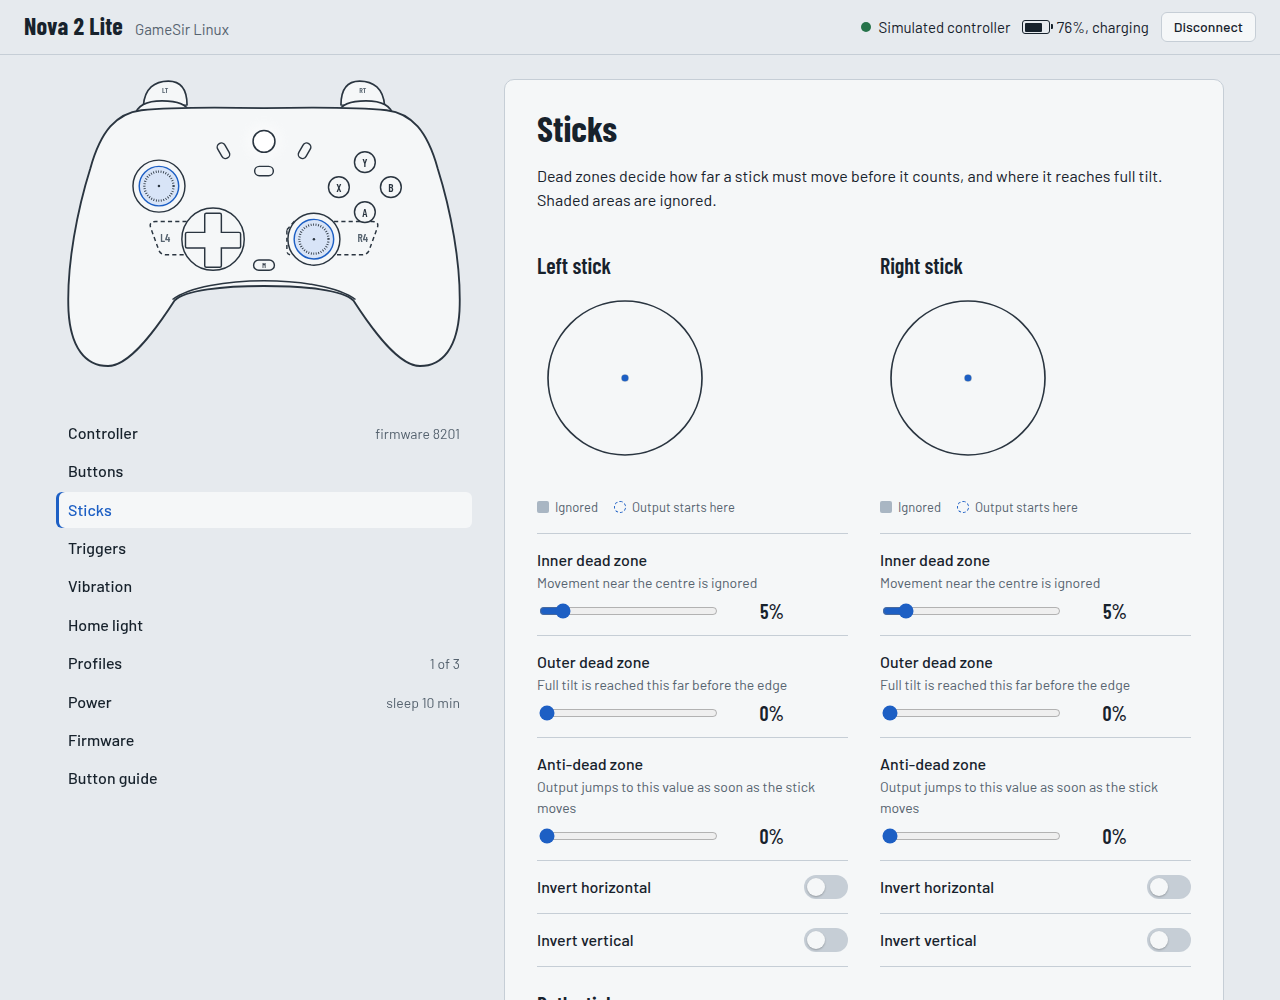
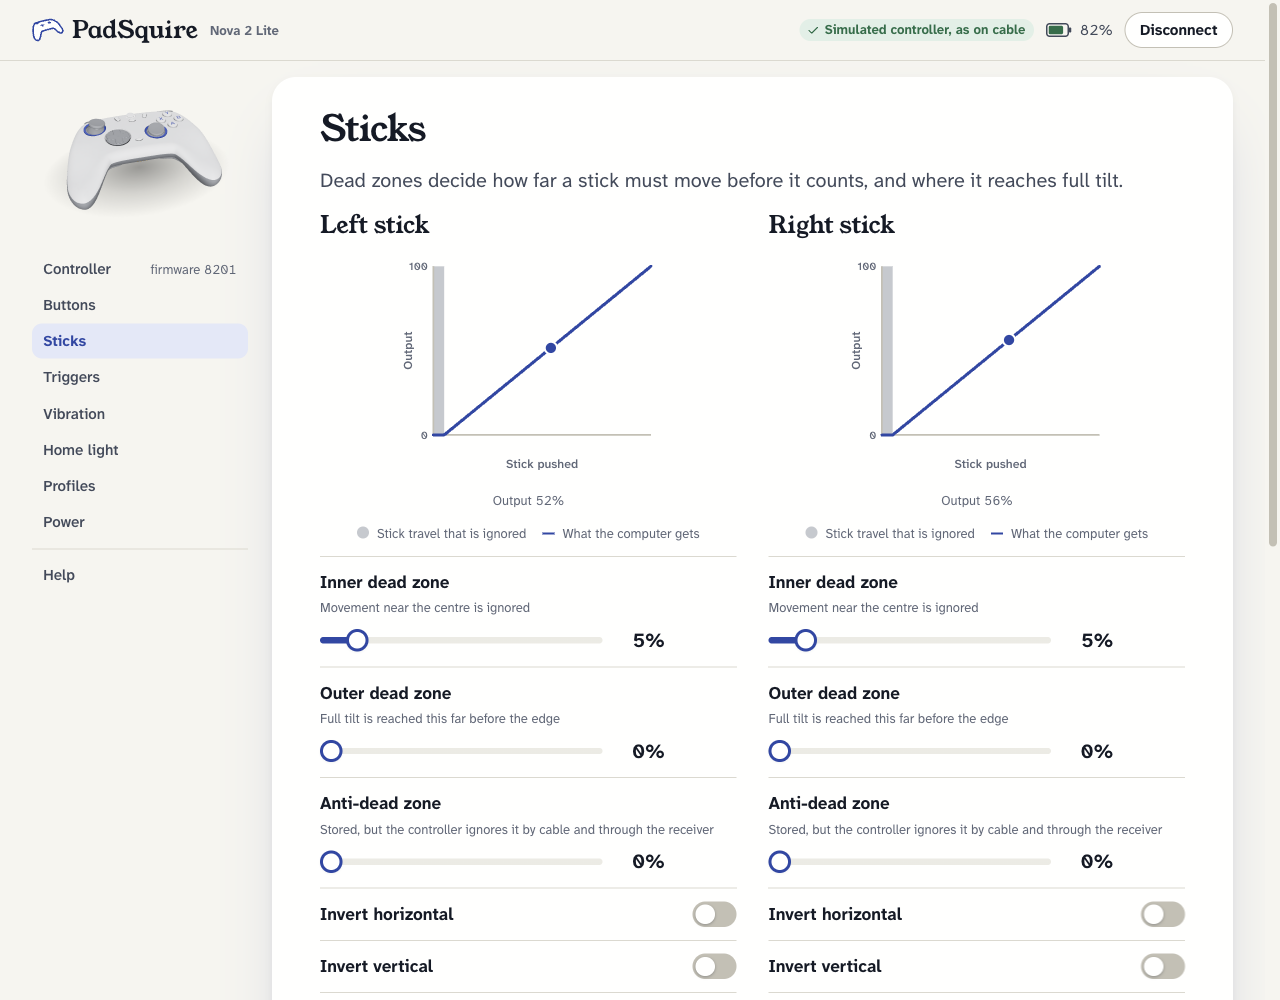
Version 0.2.0: macOS, a compact settings app, profiles and updates
- macOS: settings, the live view, the stick check, profiles, and firmware
  backup, restore and update by cable, with a PadSquire app in
  ~/Applications (an app icon, no .app in its name) and macOS's password
  dialog for update mode. The installer works on both systems.
- The settings app: a compact sidebar of nine entries, Controller with
  Overview and Firmware tabs, Help with Setup and help and the Button
  guide, response curves for sticks and triggers, busy buttons, a loading
  state shaped like the page, a phone layout.
- Merged #6 and #7: the stick check, profiles, a simulator per connection.
- PadSquire updates itself from Help.
- The tagline is now "Linux and macOS tools for GameSir controllers"; the
  README's screenshot shows today's app.

diff --git a/src/padsquire/cli.py b/src/padsquire/cli.py
@@ -170,7 +170,7 @@ def main(argv=None) -> int:
                             datefmt="%H:%M:%S")
     for line in paths.migrate():          # the folders of the old name, gamesir-linux, once
         print(f"PadSquire: {line}", file=sys.stderr)
-    p = argparse.ArgumentParser(prog="padsquire", description="PadSquire: Linux tools for GameSir controllers")
+    p = argparse.ArgumentParser(prog="padsquire", description="PadSquire: Linux and macOS tools for GameSir controllers")
     p.add_argument("--version", action="version", version=__version__)
     sub = p.add_subparsers(dest="cmd", required=True)
 

diff --git a/src/padsquire/__init__.py b/src/padsquire/__init__.py
@@ -1,4 +1,4 @@
 # SPDX-License-Identifier: AGPL-3.0-or-later
-"""Linux tools for GameSir controllers (Nova 2 Lite first)."""
+"""Linux and macOS tools for GameSir controllers (Nova 2 Lite first)."""
 
-__version__ = "0.1.3"
+__version__ = "0.2.0"

diff --git a/README.md b/README.md
@@ -1,17 +1,17 @@
 # PadSquire
 
-**Linux tools for GameSir controllers.** Configure and update the GameSir **Nova 2 Lite** on Linux,
-and configure it on macOS, without Windows. Unofficial and open source, built for interoperability by studying how the
-controller talks over USB and Bluetooth.
+**Linux and macOS tools for GameSir controllers.** Configure and update the GameSir **Nova 2 Lite**
+on Linux and macOS, without Windows. Unofficial and open source, built for interoperability by
+studying how the controller talks over USB and Bluetooth.
 
 ![The settings app, Sticks page](docs/screenshot.png)
 
 ## What it does
 
-- **A settings app in your browser** (`padsquire gui`). It finds the controller by itself when
+- **A settings app in its own window** (or a browser tab; `padsquire gui`). It finds the controller by itself when
   you plug it in, and shows every setting with the controller drawing as the map. Dead zones are
-  drawn as you drag, with the live stick or trigger position on top. On the Buttons page, the
-  buttons you press light up as the computer receives them.
+  drawn as response curves while you drag, with the live stick or trigger position on them, and
+  on the Buttons page the buttons you press light up as the computer receives them.
 - **Every setting GameSir Connect has for this controller.** That covers dead zones, stick
   options, button remapping (19 buttons, each to any other or up to three pressed together), vibration strength with a test per
   motor, the Home light and quick triggers.
@@ -27,7 +27,9 @@ controller talks over USB and Bluetooth.
   [Firmware updates](#firmware-updates).
 - **Help** inside the app. It checks what your computer still needs and gives the command for
   each item, with what every part does and links to its documentation, plus answers for when
-  something doesn't work, a guide to every button, and PadSquire's own updates.
+  something doesn't work and a guide to every button.
+- **Updates itself.** Help checks for a newer PadSquire when you open it, and an installation
+  made by the installer updates in place with one click.
 
 | | Cable | 2.4 GHz receiver | Bluetooth |
 |---|---|---|---|
@@ -39,8 +41,8 @@ controller talks over USB and Bluetooth.
 | Controller firmware update | yes | no (use the cable) | no |
 | Receiver firmware update | | yes | |
 
-Tested on one Nova 2 Lite (firmware 7701 and 8201) and its receiver (firmware 2800). On macOS,
-settings and remapping work by cable; see [On a Mac](#on-a-mac) for what doesn't yet.
+Tested on one Nova 2 Lite (firmware 7701 and 8201) and its receiver (firmware 2800), on Linux
+and, by cable, on macOS; see [On a Mac](#on-a-mac).
 
 ## Get started
 
@@ -72,10 +74,10 @@ itself when you close it. The
 window uses its own small browser profile in `~/.cache/padsquire/window` (for a Flatpak browser, as
 on a Steam Deck: `~/.var/app/<browser>/cache/padsquire/window`), so it keeps its size and none of
 your extensions or cookies come along; deleting that folder is safe.
-**Setup and help** in the app tells you anything that's still missing, and explains each command
-before you run it.
+**Help** in the app tells you anything that's still missing, and explains each command before
+you run it.
 
-- **Update:** run the same command again.
+- **Update:** with one click under Help, or run the same command again.
 - **Remove:** `curl -fsSL https://padsquire.com/install.sh | sh -s -- --uninstall`.
   Your firmware downloads and flash backups stay in `~/.local/share/padsquire`.
 - **With pipx** instead: `pipx install 'padsquire[gui]'`, then `padsquire menu` for the app-menu
@@ -91,19 +93,20 @@ internet.
 
 ### On a Mac
 
-Settings work on macOS by cable: macOS's own driver serves the controller's settings channel, so
-there's nothing to set up and no `sudo`. The same installer works on a Mac.
+The same installer works on a Mac, and it makes a PadSquire app in `~/Applications`. macOS's own
+driver serves the controller's settings channel, so settings need nothing set up and no `sudo`.
 
 - **Works:** every setting and remap by cable, the live sticks, triggers and buttons view, the
-  stick check and profiles, tested on one controller. The receiver and Bluetooth should work the same way but aren't
-  tested on a Mac yet.
+  stick check and profiles, tested on one controller. The receiver and Bluetooth should work the
+  same way but aren't tested on a Mac yet.
 - **Firmware updates, backups and restarts** work by cable too (tested on one controller). In
   update mode the controller is a USB disk, and macOS lets only an administrator take a disk
   away from its disk driver, so these ask for your password in macOS's own dialog. A small
   PadSquire helper then runs as administrator until the controller restarts, passing on only
   PadSquire's update commands. On a Mac each button does its whole job in one go (switch,
   step, restart), because there the controller leaves update mode by itself soon after.
-  macOS may also ask whether "Python" may access a disk: that's the same helper.
+  macOS may also ask whether "Python" may access a disk: that's the same helper. Downloading
+  GameSir's firmware needs 7-Zip (`brew install sevenzip`); Help says so when it's missing.
 - **Not tested on a Mac yet:** the receiver's firmware.
 - **Playing games:** in PC/Xbox mode (green) Steam recognises it as an Xbox controller, because
   Steam brings its own driver; macOS itself has none for that mode. For games outside Steam, hold
@@ -122,9 +125,10 @@ there's nothing to set up and no `sudo`. The same installer works on a Mac.
 
 ## Firmware updates
 
-On the app's **Firmware** page (on a Mac, see [On a Mac](#on-a-mac) for the password): download the firmware (the app checks for new official firmware
-and verifies its checksums), switch the controller or the receiver to update mode, make a
-backup, install, restart. The controller's firmware is installed by cable; the receiver's through
+Under **Controller → Firmware** in the app: download the firmware (the app checks for new
+official firmware and verifies its checksums), switch the controller or the receiver to update
+mode, make a backup, install, restart. On a Mac each of these is one click that does the whole
+round, after your password (see [On a Mac](#on-a-mac)). The controller's firmware is installed by cable; the receiver's through
 the receiver itself.
 
 What keeps it safe:
@@ -190,8 +194,10 @@ In green mode the controller shows up as `3537:100F` by cable, or `3537:1098` th
 receiver, with a vendor HID interface. GameSir Connect talks to it in 64-byte reports using the
 same "GCM" protocol the Android app uses over Bluetooth, so one client drives all three. Firmware
 updates use the chip's built-in USB update mode (JieLi "UBOOT1.00"), where the device shows up as a
-USB disk that takes special commands. All the details are in [PROTOCOL.md](PROTOCOL.md); testing
-on hardware is described in [HARDWARE.md](HARDWARE.md).
+USB disk that takes special commands. On Linux PadSquire talks to these through the kernel
+(hidraw, SCSI generic); on macOS through hidapi and, for update mode, raw USB with libusb. All
+the details are in [PROTOCOL.md](PROTOCOL.md); testing on hardware is described in
+[HARDWARE.md](HARDWARE.md).
 
 ## Tests
 
@@ -206,7 +212,8 @@ controller, and include a fake chip in update mode for the firmware writer.
 
 ## Roadmap
 
-- Test Bluetooth on hardware, including the six settings refused by cable.
+- Test Bluetooth on hardware, including the six settings refused by cable, and the receiver on
+  a Mac.
 - Find the cause of the occasional stop after a change.
 - Controller firmware updates through the 2.4 GHz receiver (JieLi's over-the-air updater, which
   GameSir Connect doesn't use for this controller): research.

diff --git a/CLAUDE.md b/CLAUDE.md
@@ -1,6 +1,6 @@
 # PadSquire: notes for Claude Code
 
-Linux tools for the GameSir **Nova 2 Lite** (GameSir model code T4N2): a browser settings app (the
+Linux and macOS tools for the GameSir **Nova 2 Lite** (GameSir model code T4N2): a browser settings app (the
 main interface) and a CLI, for configuration by cable, through the 2.4 GHz receiver or over
 Bluetooth, and firmware updates of the controller and the receiver. Built for interoperability
 by studying GameSir Connect 1.14.5/1.16.7 (Windows) and the GameSir Android app 5.8.20. Tested on one
@@ -95,19 +95,20 @@ Open:
 4. Controller firmware updates through the receiver (JieLi's HID over-the-air updater): research.
 5. **macOS**: blue (DualShock 4) mode for games untested; receiver and Bluetooth untested there;
    the app's one-go backup, restore and reinstall are confirmed on hardware; the receiver's
-   firmware is untested there; the disk-access prompt names "Python".
-   macOS support ships
-   with the next release (PyPI 0.1.3 has none, so the installer gets it only after a release).
+   firmware is untested there; the disk-access prompt names "Python". The installer from PyPI
+   (not a checkout) is untested on a Mac until someone runs it after 0.2.0.
 
-## Next steps (as of 2026-10-24)
+## Next steps (as of 2026-10-25)
 
-Published: v0.1.3 (the newest; v0.1.0 first) is on PyPI and GitHub Releases (trusted publishing, `pypi` environment), the repo
+Published: v0.2.0 (the newest: macOS, the compact settings app, profiles, the stick check,
+in-app updates; v0.1.0 first) is on PyPI and GitHub Releases (trusted publishing, `pypi` environment), the repo
 is public, and `https://padsquire.com/install.sh` redirects to the newest release's `install.sh`
 (the website lives in `Magniswerfer/padsquire-website`; edit it only from its own repo). A new
 release: bump `version` in `pyproject.toml`, then push a matching `v*` tag.
 
-Left for the owner: try the real thing, `curl -fsSL https://padsquire.com/install.sh | sh`, then
-open PadSquire from the app menu.
+Left for the owner: try the real thing on both systems, `curl -fsSL https://padsquire.com/install.sh | sh`,
+then open PadSquire from the app menu (on a Mac: Launchpad, Spotlight or Raycast). The in-app
+update can first be tried with the release after 0.2.0.
 
 Then: Bluetooth testing (the checklist in HARDWARE.md).
 
@@ -126,7 +127,7 @@ Then: Bluetooth testing (the checklist in HARDWARE.md).
   in code once confirmed.
 - No GameSir files in the repo (`*.ufw`, `*.exe` are gitignored).
 - Keep the user-facing copy plain and in sentence case.
-- The project is PadSquire ("Linux tools for GameSir controllers"). Use "GameSir" only for what it
+- The project is PadSquire ("Linux and macOS tools for GameSir controllers"). Use "GameSir" only for what it
   works with, never as part of our own name. Public wording leads with interoperability, not with
   how the protocol was found; technical detail belongs in PROTOCOL.md.
 - The settings app is the product: a new capability gets its GUI path, its Setup and help entry
